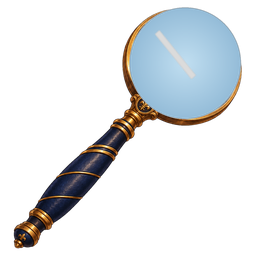
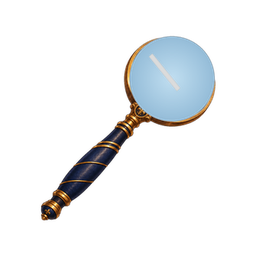
Cierre 2.0: lupa y pluma con margen en su marco, acierto más cálido, historial limpio, hitos con estrellas y secretos con sello (cache 32)
- Avatares: lupa y pluma reescaladas (76 %) y centradas; ya no tocan el círculo. Catálogo e IDs sin cambios.
- Acierto: nueva muestra de dos notas de mazo (Sol4→Do5, ~0,4 s, sin el pitido de ~1,5 kHz); la capa de racha 5+ pasa a sinusoidal en Do. Error, fanfarria y tic-tac intactos.
- Historial: v1.5 «Amigos, duelos online y retos.»; v2.0 sin la nota de copia de seguridad.
- Logros: hitos de 12 y 15 Fragmentos conservan 💫 y 🌠 al desbloquear; secretos con sello azul marino y «?».

Claude-Session: https://claude.ai/code/session_01A1K7Ct3kZoDeRkFiucYXDh

Changed region(s): [[0.0312, 0.0, 0.9688, 0.9688], [0.5625, 0.2188, 0.7188, 0.375]]

diff --git a/index.html b/index.html
@@ -994,8 +994,7 @@ try {
               <span class="settings-changelog-entry-date">26/09/2026</span>
             </div>
             <ul class="settings-changelog-list">
-              <li>Amigos, Duelo online en directo (20 preguntas) y Retos con 3 días de plazo.</li>
-              <li>Requieren cuenta y se irán activando poco a poco.</li>
+              <li>Amigos, duelos online y retos.</li>
             </ul>
           </div>
           <div class="settings-changelog-entry">
@@ -1010,7 +1009,6 @@ try {
               <li>Nueva tarjeta para compartir tu resultado.</li>
               <li>Sonidos nuevos y música para los menús.</li>
               <li>Nuevas ventajas con los Fragmentos de Mente.</li>
-              <li id="changelog-v2-save-note">Recuerda: en Ajustes puedes descargar una copia de seguridad de tu progreso.</li>
             </ul>
           </div>
         </div>
@@ -6451,9 +6449,9 @@ function renderAchievementsProgress() {
 const FRAGMENT_MILESTONES = [
   { fragments: FRAGMENT_TARGET, icon: '👁', title: 'Lucidez Mental', text: 'Desbloquea Lucidez Mental', goal: 'desbloquear Lucidez Mental',
     secretText: 'Desbloquea un modo secreto', secretGoal: 'desbloquear un modo secreto' },
-  { fragments: 12, icon: '🛡', title: 'Error extra', text: '+1 error extra en Lucidez', goal: 'conseguir +1 error extra',
+  { fragments: 12, icon: '💫', title: 'Error extra', text: '+1 error extra en Lucidez', goal: 'conseguir +1 error extra',
     secretIcon: '💫', secretText: 'Una ventaja especial para el modo secreto', secretGoal: 'conseguir una ventaja especial' },
-  { fragments: 15, icon: '🧿', title: 'Errores extra', text: '+2 errores extra en total', goal: 'conseguir +2 errores extra',
+  { fragments: 15, icon: '🌠', title: 'Errores extra', text: '+2 errores extra en total', goal: 'conseguir +2 errores extra',
     secretIcon: '🌠', secretText: 'Una ventaja aún mayor para el modo secreto', secretGoal: 'conseguir una ventaja aún mayor' }
 ];
 // 2.0: hasta que el jugador desbloquea el modo secreto (10 Fragmentos), los hitos NO nombran «Lucidez Mental»
@@ -6834,7 +6832,6 @@ function applySyncCopy() {
   if (progressSection && progressSection.closest('.settings-section')) progressSection.closest('.settings-section').style.display = 'none';
   setText('progress-save-note', 'Tu progreso, tu historial, tus estadísticas, tus ajustes y tus duelos se guardan en tu cuenta automáticamente y se recuperan al iniciar sesión en cualquier dispositivo.');
   setText('welcome-save-note', 'Tu progreso se guarda en tu cuenta y lo recuperas al iniciar sesión en cualquier dispositivo.');
-  setText('changelog-v2-save-note', 'Todo tu progreso (historial, estadísticas, ajustes y duelos) se sincroniza con tu cuenta y se recupera en otro dispositivo. Ya no hace falta la copia de seguridad manual.');
 }
 
 function applyAppVersionText() {

diff --git a/src/audio/audio.js b/src/audio/audio.js
@@ -7,6 +7,7 @@
 // Se descargan y decodifican una vez; mientras no estén listas (o si fallan) suena el sintetizado de siempre.
 // La progresión por racha se conserva: a partir de 5 seguidas, el acorde/arpegio de siempre se suma, más
 // suave, encima de la muestra.
+// Acierto (cierre 2.0): dos notas de mazo cálidas, Sol4→Do5, ~0,4 s y sin agudos (antes dominaba un pitido de ~1,5 kHz).
 
 let audioCtx = null;
 
@@ -83,11 +84,11 @@ function playCorrectSound(streak) {
       gain.gain.exponentialRampToValueAtTime(0.01, now + 0.15);
       osc.start(now); osc.stop(now + 0.15);
     } else if (s < 8) {
-      // Racha 5-7: acorde más brillante, sobre las mismas notas del motivo.
-      const notes = [659.25, 830.61, 987.77];
+      // Racha 5-7: acorde suave en Do (misma tonalidad que la muestra Sol→Do), sinusoidal: acompaña sin chillar.
+      const notes = sampled ? [392.00, 523.25, 659.25] : [659.25, 830.61, 987.77];
       notes.forEach((freq, i) => {
         const o = ctx.createOscillator(); const g = ctx.createGain();
-        o.type = 'triangle'; o.connect(g); g.connect(ctx.destination);
+        o.type = sampled ? 'sine' : 'triangle'; o.connect(g); g.connect(ctx.destination);
         const start = now + i * 0.03;
         o.frequency.setValueAtTime(freq, start);
         g.gain.setValueAtTime(0.12 * layer, start);
@@ -95,11 +96,11 @@ function playCorrectSound(streak) {
         o.start(start); o.stop(start + 0.22);
       });
     } else {
-      // Racha 8+: pequeña celebración, arpegio de 4 notas sobre el mismo motivo.
-      const notes = [659.25, 830.61, 987.77, 1318.51];
+      // Racha 8+: pequeña celebración, arpegio de 4 notas en Do (sinusoidal con la muestra).
+      const notes = sampled ? [392.00, 523.25, 659.25, 783.99] : [659.25, 830.61, 987.77, 1318.51];
       notes.forEach((freq, i) => {
         const o = ctx.createOscillator(); const g = ctx.createGain();
-        o.type = 'triangle'; o.connect(g); g.connect(ctx.destination);
+        o.type = sampled ? 'sine' : 'triangle'; o.connect(g); g.connect(ctx.destination);
         const start = now + i * 0.06;
         o.frequency.setValueAtTime(freq, start);
         g.gain.setValueAtTime(0.001, start);

diff --git a/styles/main.css b/styles/main.css
@@ -5386,3 +5386,8 @@ h3.stats-h::before { display: none !important; content: none !important; }
 #view-stats #stats-duel-section { margin-top: var(--space-lg); }
 .dossier-seal { overflow: hidden; }
 .dossier-seal .seq-av-img { width: 88%; height: 88%; object-fit: contain; display: block; }
+/* Logros secretos sin conseguir: sello azul marino con «?» dorado (misterioso, no un candado más). */
+.ach-secret-seal { width: 100%; height: 100%; border-radius: 50%; display: flex; align-items: center; justify-content: center;
+  background: radial-gradient(circle at 50% 38%, #2a3560, #1c2340); border: 2px solid #c9992e; box-shadow: inset 0 0 0 3px #1c2340, inset 0 0 0 4px rgba(201,153,46,.55);
+  font: 800 20px/1 var(--font-display, Georgia, serif); color: #e8c874; }
+.ach-row.is-secret .ach-ico { background: none; border: 0; box-shadow: none; padding: 0; filter: none; opacity: 1; }

diff --git a/src/ui/achievements.js b/src/ui/achievements.js
@@ -85,9 +85,8 @@
 
   function row(m, s, unlocked) {
     var frag = false; try { frag = FRAGMENT_MEDAL_IDS.indexOf(m.id) !== -1; } catch (e) {}
-    var lock = typeof MEDAL_LOCK_SVG === 'string' ? MEDAL_LOCK_SVG : '🔒';
     if (m.secret && !unlocked) {
-      return '<div class="ach-row is-secret"><div class="ach-ico">' + lock + '</div><div class="ach-body"><div class="ach-title">???</div>' +
+      return '<div class="ach-row is-secret"><div class="ach-ico"><span class="ach-secret-seal" aria-hidden="true">?</span></div><div class="ach-body"><div class="ach-title">???</div>' +
         '<div class="ach-desc">Logro secreto</div></div></div>';
     }
     var prog = '';

diff --git a/sw.js b/sw.js
@@ -38,7 +38,7 @@
 // styles/main.css, src/data/medals.js, src/utils/store.js y src/online/duels.js (ya en el shell).
 // 2.0 (Prompt 5, tarjeta de compartir): subido de 10 a 11; nuevo src/share/share-card.js
 // (añadido al shell) y cambiaron index.html y src/online/duels.js.
-const CACHE_VERSION = 31;
+const CACHE_VERSION = 32;
 const CACHE_NAME = `sedq-shell-v${CACHE_VERSION}`;
 
 // Rutas relativas al propio sw.js (que vive en la raíz de la app, tanto en
